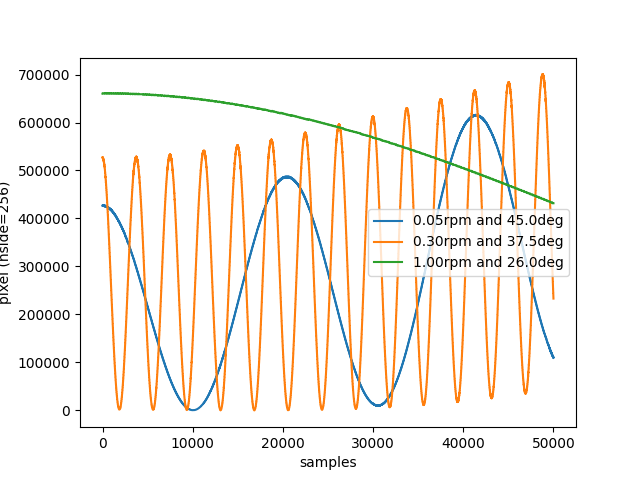
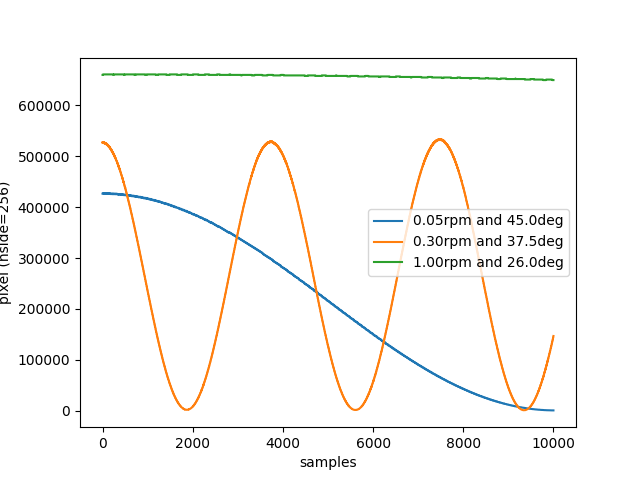
adjusting the number of samples

diff --git a/validation/check_pointings.py b/validation/check_pointings.py
@@ -46,7 +46,7 @@ psi_100_260 = pnt['PSI']
 
 ###
 
-nsamp = 50000
+nsamp = 10000
 
 plt.plot(theta_005_450[:nsamp], label='0.05rpm and 45.0deg')
 plt.plot(theta_030_375[:nsamp], label='0.30rpm and 37.5deg')
@@ -92,6 +92,10 @@ plt.ylabel('pixel (nside=256)')
 plt.savefig('pixs.png')
 plt.clf()
 
+###
+
+nsamp = len(pix_005_450)
+
 hits_005_450 = np.zeros(hp.nside2npix(nside))
 hits_030_375 = np.zeros(hp.nside2npix(nside))
 hits_100_260 = np.zeros(hp.nside2npix(nside))
@@ -100,6 +104,10 @@ for i in np.arange(nsamp):
     hits_005_450[pix_005_450[i]] += 1
     hits_030_375[pix_030_375[i]] += 1
     hits_100_260[pix_100_260[i]] += 1
+
+hits_005_450[np.where(hits_005_450 == 0)] = hp.UNSEEN
+hits_030_375[np.where(hits_030_375 == 0)] = hp.UNSEEN
+hits_100_260[np.where(hits_100_260 == 0)] = hp.UNSEEN
 
 hp.mollview(hits_005_450, title='hits 0.05rpm')
 plt.savefig('hits_005.png')
